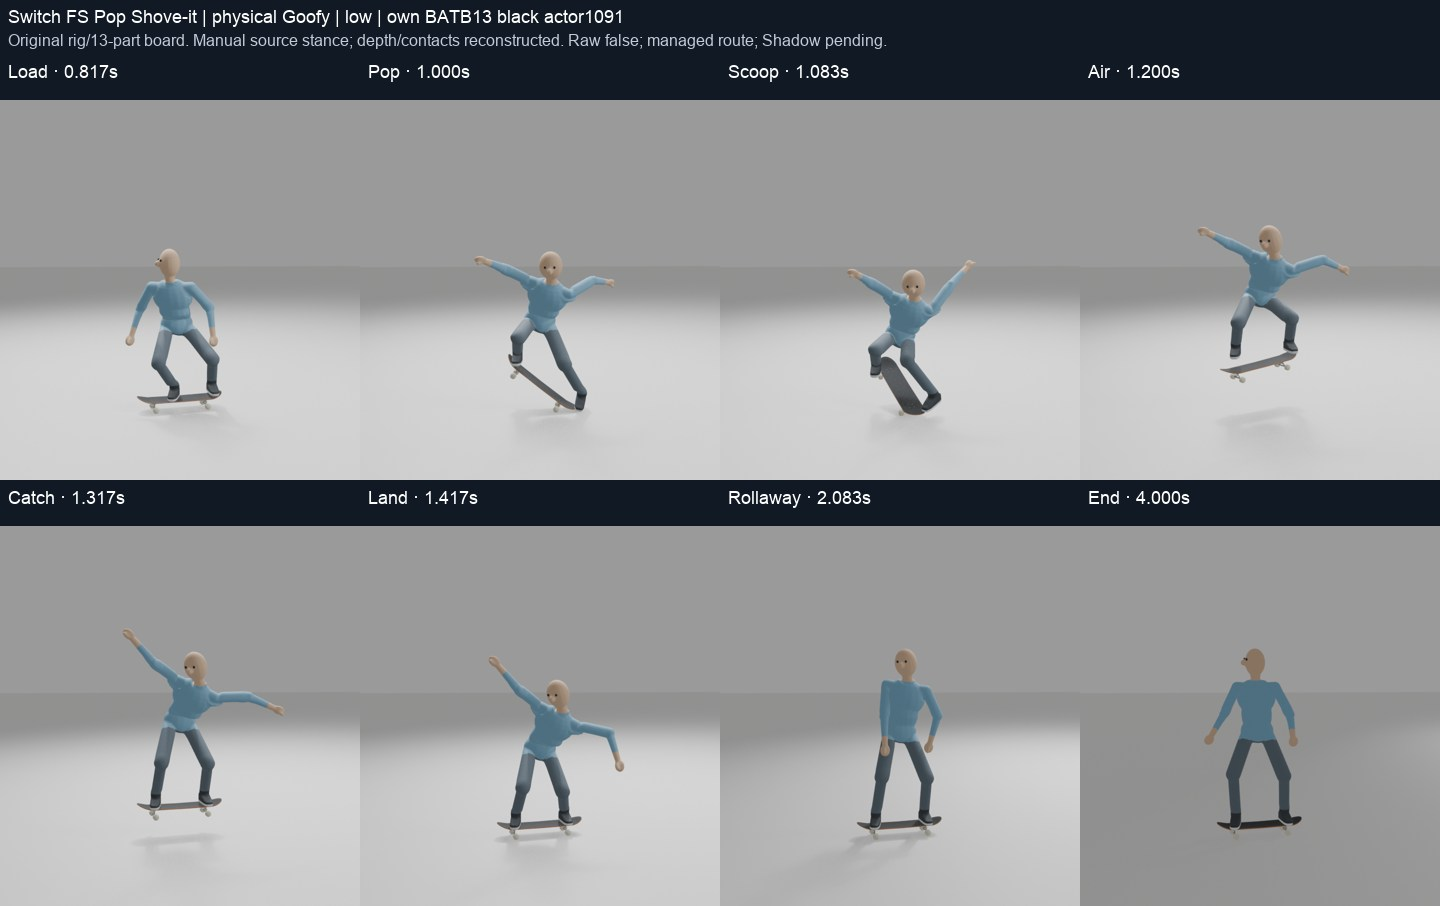
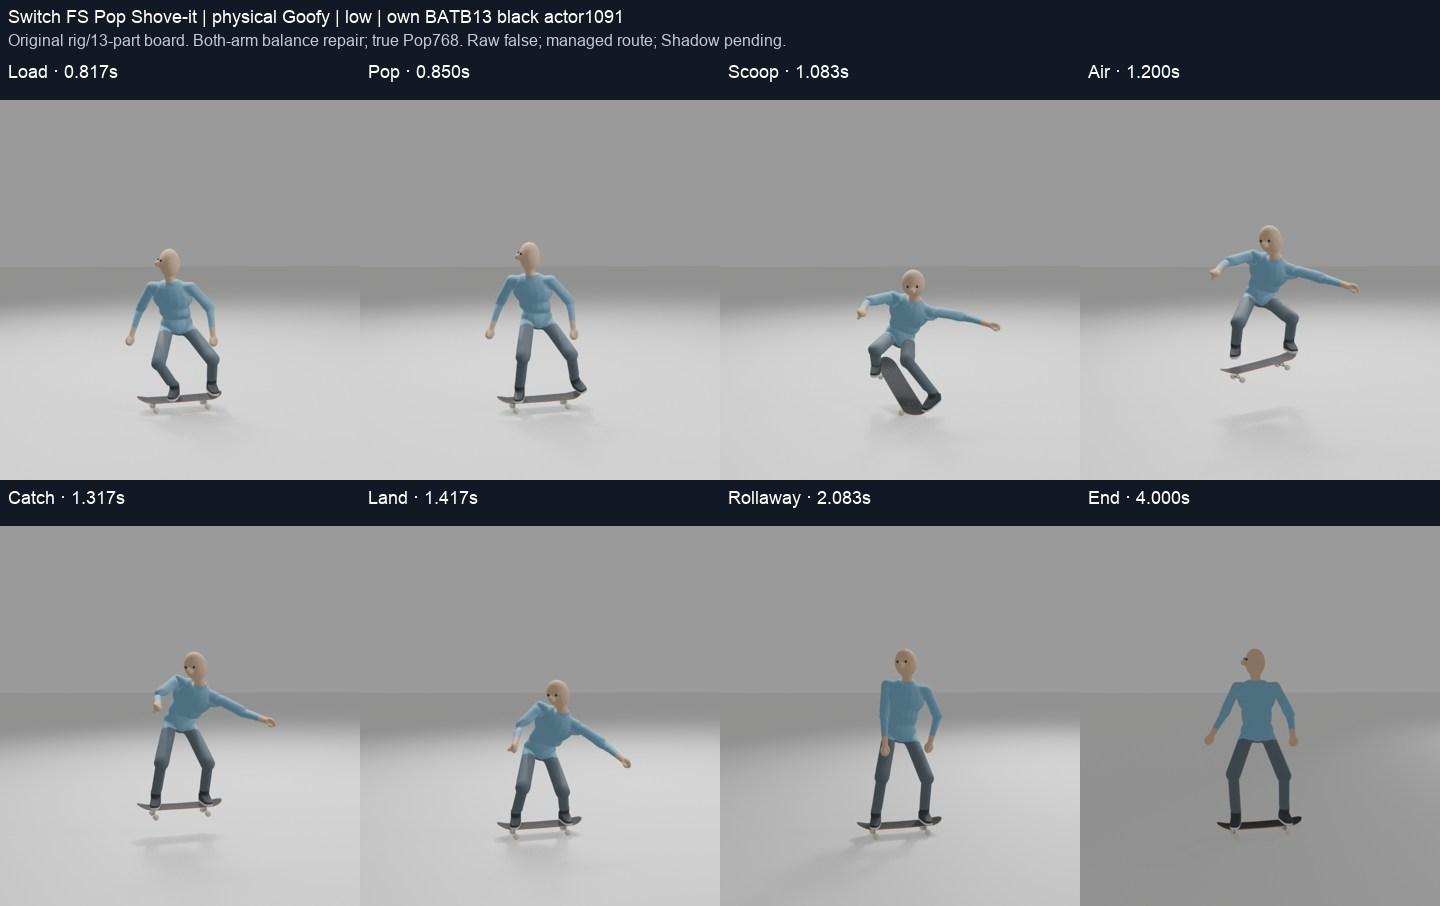
docs(animation): show Switch FS arm-balance repair in four cases

diff --git a/docs/review-media/a5-switch-fs-pop-shove/README.md b/docs/review-media/a5-switch-fs-pop-shove/README.md
@@ -11,11 +11,25 @@ skinned rider and complete13-part skateboard are used throughout.
 | Normal | [Phases](switch-fs-pop-shove-normal-physical-regular.jpg) · [Contacts](switch-fs-pop-shove-normal-physical-regular-contacts.jpg) | [Phases](switch-fs-pop-shove-normal-physical-goofy.jpg) · [Contacts](switch-fs-pop-shove-normal-physical-goofy-contacts.jpg) |
 | Low | [Phases](switch-fs-pop-shove-low-physical-regular.jpg) · [Contacts](switch-fs-pop-shove-low-physical-regular-contacts.jpg) | [Phases](switch-fs-pop-shove-low-physical-goofy.jpg) · [Contacts](switch-fs-pop-shove-low-physical-goofy-contacts.jpg) |
 
-The phase sheets show Load, Pop, Scoop, Air, Catch, Land, Rollaway and the
-ordinary4-second endpoint. Contact sheets add the side view, tail pressure,
-release, reversed-end catch and planted rollout. Physical captions come from
-the animated GLB foot bones against its initial nose; requested/native binding
-is retained separately in the manifest.
+The phase sheets show eight moments: Load, **Pop / first rise768**, Scoop, Air, Catch,
+Land, Rollaway and the ordinary4-second endpoint. The main Pop button now
+selects that genuine event at0.850s. The old rejected strike773.5 is retained
+at the exact same1.017s normal-flight instant as **TailStrike**, separately
+from Pop. Contact sheets show that instant, Scoop from two angles, Catch and
+Land; the associated foot-detail checks remain in the private receipt.
+Physical captions/default/dropdowns come from the actual animated GLB foot
+bones; requested/native bindings are retained separately in the manifest.
+
+The [Regular](arms-before-after-regular.jpg) and
+[Goofy](arms-before-after-goofy.jpg) arm comparisons preserve the original
+camera, strike/Scoop/Catch/Land times and original skinned model. Both arms
+are explicitly reconstructed into bent forward/outward balance at or below
+the shoulders through those moments. The prior overhead V and sustained
+straight high hand are removed; this is an authored correction for
+[Claude's A5 gate](https://github.com/Dj-Shortcut/rust-skate-mod/issues/716#issuecomment-6567110165).
+Source762–768 blends into the new arm controls;797–808 settles back into the
+original accepted rollout. Shoulders/head/torso/pelvis, feet/soles, board,
+contacts and all source/event clocks remain unchanged.
 
 This is the genuine black-shirt/cap attempt in
 [The Berrics video](https://www.youtube.com/watch?v=tL8Ey9GS0xQ&t=205),
@@ -43,22 +57,28 @@ rig-only comparisons show the earlier rise and less perched front knee; both
 source and native times are labelled.
 
 The exact
-[render/runtime freeze](https://github.com/Dj-Shortcut/rust-skate-mod/commit/4f2b7c2be24c7a1e734d15daca1e751805bd2fe4)
-selects Ollie, Switch=true, TailLeads=false, flip0, shove+180, spin0 and body0.
+[render/runtime freeze](https://github.com/Dj-Shortcut/rust-skate-mod/commit/05745de05687ec43e61a782bf075539288679c93)
+uses the existing Ollie, Switch=true, TailLeads=false, flip0, shove+180,
+spin0/body0 route. This repair changes no C# or gameplay code.
 Four actual Pad→production Step/Land/scorer cases produce
 `Switch Frontside Pop Shove-it`, with36/36 normal and34/34 low Air samples
-using the capture. Native trace bytes match the pre-entry-change baseline.
-All four cases were exported and checked at1×/¼× through ordinary recovery;
-28 decoded-source phase seeks and24 source774/side/feet views reported no
-browser errors. The actual model and source comparisons were viewed in both
-stances/heights, including the labelled mirror.
+using the capture. All four complete native traces are byte-identical to
+the prior4f2 baseline. Each241-frame body replay differs only in the four
+elbow/hand positions: all other motion/physics/contact fields are exact.
+
+Four original-skin/full13-part GLBs and32 phase frames were checked at1×/¼×
+through4-second ordinary recovery. All32 decoded-source phase visits and
+24 Source/Side/Feet arm/contact details completed without browser errors.
+The author inspected both stances/heights, arm-window transitions and
+Catch/Land through rollout; no high-hand rebound was observed. Root also
+inspected the same-time before/after originals. These are controlled
+managed/graphical self-review results; Claude retains the independent
+offline verdict and library status.
 
 Raw pack SHA-256:
[1 lines of base64/hex data omitted]
-It remains `reviewed=false`. These are author self-review and controlled
-managed checks; Claude owns the independent offline verdict and library
-status. Native Rust/Shadow, multiplayer and installed-package acceptance are
-separate and unverified here. Source video/audio/pixels and raw model arrays
-remain private; committed images show only the original rig.
-
-After main gained Nollie FS (#722), integration `2676f9c8` retained its index36 and appended Switch FS at37. All four complete body files and four native traces are byte-identical to the rendered `4f2b7c2b` freeze, including metadata. The original GLBs/replays stay explicitly pinned to4f2; no new render or broader runtime claim is made. The complete81-source client compile passes against356 cached references.
[1 lines of base64/hex data omitted]
+It stays `reviewed=false`. Native Rust/Shadow, multiplayer and installed
+package acceptance remain separate and unverified. Source video/audio/pixels
+and raw model arrays remain private; committed images show only the
+original rig. The earlier root-entry comparisons above are historical;
+the new arm comparisons and eight current sheets use the freeze linked here.

diff --git a/assets/authored/animation/switch-fs-pop-shove-keyed/README.md b/assets/authored/animation/switch-fs-pop-shove-keyed/README.md
@@ -64,24 +64,25 @@ pelvis/board curves, physics/scoring and all existing guards remain intact.
 [Original-rig phase/contact sheets](../../../../docs/review-media/a5-switch-fs-pop-shove/README.md).
 Four actual Pad/production Step/Land/scorer cases select Switch Frontside
 Pop Shove-it, normal/low and both requested bindings. All36normal/34low Air
-samples per stance retain the capture; native traces remain byte-identical.
-Four original-skin/full13-part-board exports,32 phase frames,1×/¼× playback,
-28 decoded-source seeks and24source774/side/foot details were self-checked
-through ordinary4-second recovery, without browser errors. Source matching
-Goofy and its Regular mirror are explicitly labelled; source pixels never
-mirror. Private camera fits reflect viewing side only, never native heading.
+samples per stance retain the capture. All four complete native traces
+match the earlier4f2 baseline byte-for-byte. The475 source samples and each
+241-frame actual body replay differ only in the four elbow/hand positions;
+all non-arm body/foot/board/sole/time/contact/physics fields are exact.
 
-Those existing viewer/media checks describe the earlier rejected arm baseline.
-The balance-repair source pack is
[1 lines of base64/hex data omitted]
-its475 source samples differ only in the four elbow/hand joints. Exact-current-main
-four-case body replays and replacement original-rig media remain pending at
-this source handoff. The raw pack remains `reviewed=false`.
+Four original-skin/full13-part-board exports and32 phase frames were
+self-checked at1×/¼× through4-second ordinary recovery, with32 decoded-source
+phase visits and24 Source/Side/Feet arm/contact details, without browser
+errors. The new arm transitions settle through Catch/Land into the original
+rollout without a high-hand rebound. The true first-rise768 is the main Pop
+button; the exact old rejected strike773.5 remains explicit as TailStrike
+and in same-camera before/after figures. Source-matching Goofy and its
+Regular mirror follow the actual GLB bone audit, including default/dropdowns;
+source pixels remain unchanged.
 
-The [render/runtime freeze](https://github.com/Dj-Shortcut/rust-skate-mod/commit/4f2b7c2be24c7a1e734d15daca1e751805bd2fe4)
+The [render/runtime freeze](https://github.com/Dj-Shortcut/rust-skate-mod/commit/05745de05687ec43e61a782bf075539288679c93)
 uses raw pack SHA-256
[1 lines of base64/hex data omitted]
-Raw packs stay `reviewed=false`. These are managed/graphical author checks,
-not native Rust/Shadow or installed-package approval. Claude owns the
-independent offline verdict and library status; the owner tests the native
-client later on Shadow.
[1 lines of base64/hex data omitted]
+this data-only repair. Raw packs stay `reviewed=false`. These are controlled
+managed/graphical author checks; Claude owns the independent offline
+verdict and library status. Native Rust/Shadow and installed-package
+acceptance remain separate and pending.
